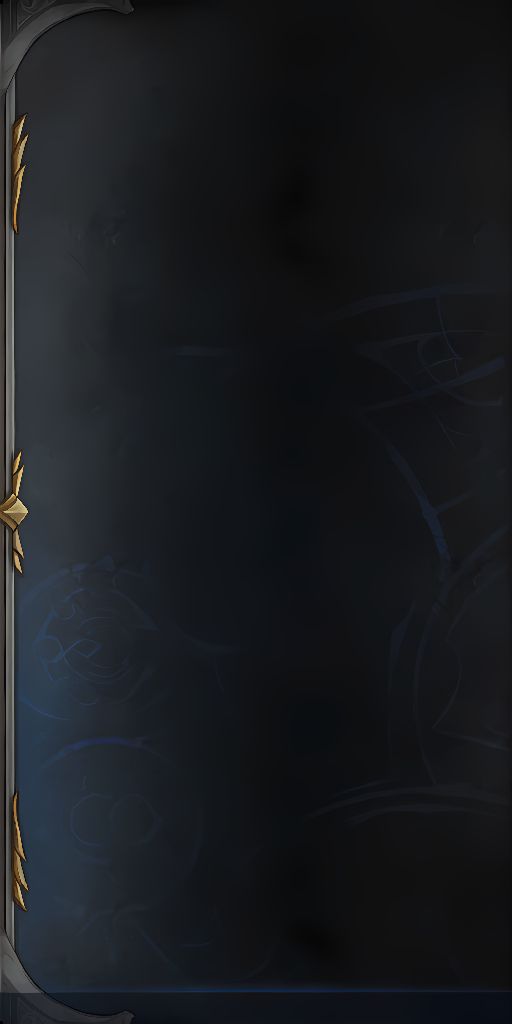
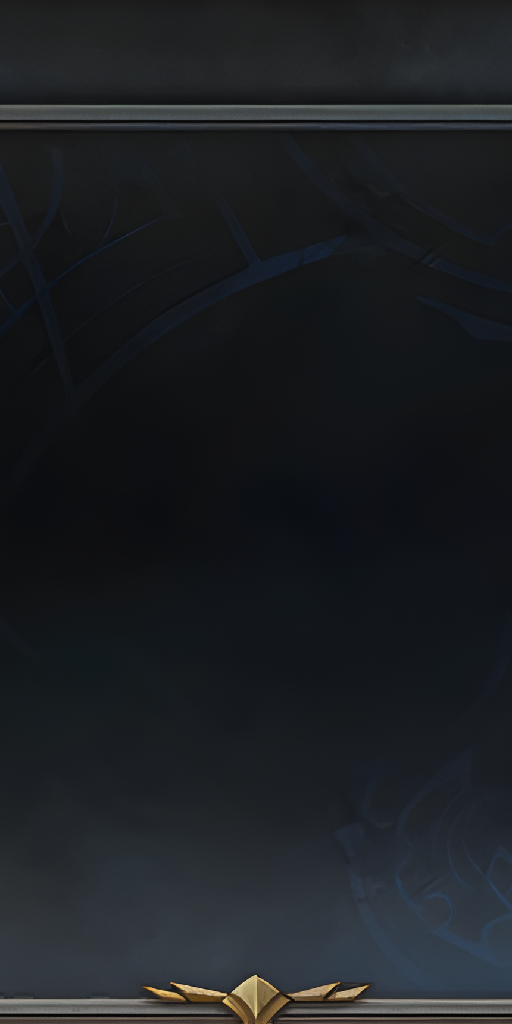
Many backgrounds, settings button fixed

Changed region(s): [[0.0, 0.0, 1.0, 1.0], [0.5, 0.2188, 0.6562, 0.2812], [0.8438, 0.5, 0.875, 0.5312]]

diff --git a/Changelog.md b/Changelog.md
@@ -5,6 +5,20 @@ All notable changes to this project will be documented in this file.
 The format is based on [Keep a Changelog],
 and this project adheres to [Semantic Versioning].
 
+## [1.2.1] - 2023-11-07
+
+### Added
+
+- Added an option to enable/disable the class panel
+- More background options: 1 from every expansion, just for a bit more flavour
+
+
+### Fixed
+
+- Settings button should now reliably open the settings (updated to Dragonflight functions)
+
+
+
 ## [1.2.0] - 2023-11-06
 
 ### Added
@@ -389,7 +403,8 @@ Basically just the rating for the bracket and the tier they're currently in
 [semantic versioning]: https://semver.org/spec/v2.0.0.html
 
 <!-- Versions -->
-[unreleased]: https://github.com/NintendoLink07/MythicIOGrabber/compare/1.2.0...HEAD
+[unreleased]: https://github.com/NintendoLink07/MythicIOGrabber/compare/1.2.1...HEAD
+[1.2.1]: https://github.com/NintendoLink07/MythicIOGrabber/releases/tag/1.2.1
 [1.2.0]: https://github.com/NintendoLink07/MythicIOGrabber/releases/tag/1.2.0
 [1.1.7]: https://github.com/NintendoLink07/MythicIOGrabber/releases/tag/1.1.7
 [1.1.5]: https://github.com/NintendoLink07/MythicIOGrabber/releases/tag/1.1.5
